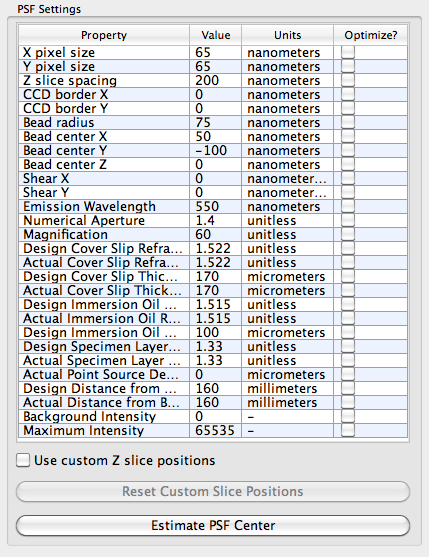
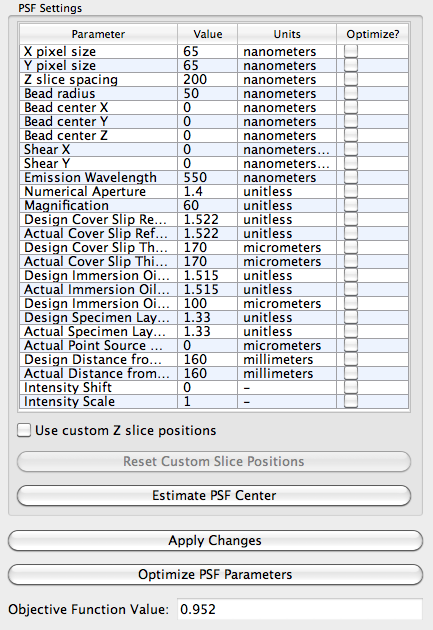
Finished first draft of user guide. Updated images to reflect interface changes.

diff --git a/docs/PSFEstimator-UserGuide.tex b/docs/PSFEstimator-UserGuide.tex
@@ -41,7 +41,9 @@
 
 \section{Introduction}
 
-PSF Estimator is a program for computing a noise-free estimate of a point-spread function (PSF) of widefield and confocal microscopes. It works by fitting an analytical model of the PSF to an image of a sub-diffraction-limit-sized fluorescent bead. The fitting is a a maximum likelihood estimate that assumes noise is either Gaussian distributed;.
+PSF Estimator is a program for computing a noise-free estimate of a point-spread function (PSF) of widefield and confocal microscopes. It works by fitting an analytical model of the \emph{bead-spread function} to an image of a sub-diffraction-limit-sized fluorescent bead. The bead-spread function (BSF) is calculated as the convolution of the PSF with a sphere whose radius is the same as the radius of the physical bead used to produce the measured image.
+
+The fitting process minimizes the mean squared difference between pixels in the measured image and corresponding pixels in the calculated image. This process yields a maximum likelihood estimate of the PSF (assuming that noise is Gaussian distributed).
 
 \subsection{System Requirements}
 
@@ -51,7 +53,7 @@ Your system should have at least 150 MB of hard drive space free to install the 
 
 \subsection{Acknowledgements}
 
-PSF Estimator \ProgramVersion is developed and maintained by the \href{http://www.cismm.org}{Center for Computer Integrated Systems for Microscopy and Manipulation}, a \href{http://www.nibib.nih.gov/}{National Institute of Biomedical Imaging and Bioengineering Resource}, award number P41-EB002025.
+PSF Estimator \ProgramVersion is developed and maintained by the \href{http://www.cismm.org}{Center for Computer Integrated Systems for Microscopy and Manipulation}, a \href{http://www.nibib.nih.gov/}{National Institute of Biomedical Imaging and Bioengineering Resource}, award number P41-EB002025. Additional work was supported by the National Library of Medicine Insight Toolkit Adapters, Algorithms, Data, and Distribution program.
 
 \section{Installation}
 
@@ -104,7 +106,7 @@ The main program window is organized into several sections.
 
 \subsubsection{Visualization Panel}
 
-The visualization panel (center) displays PSFs via three orthogonal cutting planes. A measured PSF imported into the program, a calculated PSF, or a calculated bead-spread function (BSF, the image of a spherical bead convolved with the PSF) can be displayed here. Only one of these images may displayed at one time; switching between them enables visual inspection of the PSF fitting results.
+The \emph{Visualization Panel} (center, Figure \ref{fig:ProgramWindow}) displays PSFs via three orthogonal cutting planes. A measured PSF imported into the program, a calculated PSF, or a calculated bead-spread function (BSF, the image of a spherical bead convolved with the PSF) can be displayed here. Only one of these images may displayed at one time; switching between them enables visual inspection of the PSF fitting results.
 
 \subsubsection{Display Settings}
 
@@ -112,16 +114,15 @@ The \emph{Display Settings} control which PSF image is displayed in the \emph{Vi
 
 \begin{description}
 
-  \item[Image] \hfill \\
-   
+  \item[Image] \hfill
    \begin{figure}[h]
     \centering
     \includegraphics[scale=0.5]{images/ImageControls}
-    \caption{Image controls.}
+    \caption{The image controls determine which image is displayed in the \emph{Visualization Panel}.}
     \label{fig:ImageControls}
   \end{figure}
  
-  These controls let you choose which image to display: the measured bead-spread function, the point-spread function corresponding to the current PSF settings, or the bead-spread function corresponding to the current PSF settings.
+The controls shown in Figure \ref{fig:ImageControls} let you choose which image to display: the measured bead-spread function, the point-spread function corresponding to the current PSF settings, the bead-spread function corresponding to the current PSF settings, or the difference between the measured image and the bead-spread function. If no measured image is loaded in the program, then the \emph{Measured Bead-Spread Function} and \emph{Measured Minus Calculated BSF} are disabled.
 
   \item[Contrast] \hfill \\
   
@@ -132,7 +133,7 @@ The \emph{Display Settings} control which PSF image is displayed in the \emph{Vi
     \label{fig:ContrastControls}
   \end{figure}
   
-  Controls which PSF/BSF image voxel value maps to black and which voxel value maps to white.
+  The contrast controls (Figure \ref{fig:ContrastControls}) determine which PSF/BSF image voxel value maps to black and which voxel value maps to white. The range of the controls is set to the minimum and maximum voxel values in the image selected in the \emph{Image} panel.
 
   \item[Image Plane Settings] \hfill \\
   
@@ -143,7 +144,7 @@ The \emph{Display Settings} control which PSF image is displayed in the \emph{Vi
     \label{fig:ImagePlaneSettingsControls}
   \end{figure}
   
-  Control which slices through the image in the $yz$, $xz$, and $xy$ planes are displayed and whether those image planes are displayed. The range for the \emph{X Plane} setting is from 1 to the number of voxels into the $x$-direction, and the range for the \emph{Y Plane} and \emph{Z Plane} are similarly defined.
+  Shown in Figure \ref{fig:ImagePlaneSettingsControls}, these controls determine which slices through the image in the $yz$, $xz$, and $xy$ planes are displayed and whether those image planes are displayed. The range for the \emph{X Plane} setting is from 1 to the number of voxels into the $x$-direction, and the range for the \emph{Y Plane} and \emph{Z Plane} are similarly defined.
 
   \item[Outline] \hfill \\
   
@@ -191,7 +192,40 @@ The \emph{Image Information} control panel displays information about the image 
   \label{fig:PSFSettingsControlPanel}
 \end{figure}
 
-The PSF settings table is used to set parameters for the analytical PSF and BSF models. These parameters are described in Section \ref{sec:PointSpreadFunctionSettings} of this manual.
+The PSF settings table is used to set parameters for the analytical PSF and BSF models. The table has four columns giving the parameter name, parameter value, unit of measurement of the parameter, and a checkbox indicating whether the parameter will be optimized. Descriptions of individual parameters for PSF models supported by the program are described in Section \ref{sec:PointSpreadFunctionSettings} of this manual.
+
+The remaining controls are described below.
+
+\begin{description}
+
+  \item[Custom Z slice positions] \hfill \\
+  
+When checked, the \emph{Use custom Z slice positions} checkbox adds one PSF parameter in the PSF settings table for each Z slice in the image. This feature can be used to fit image stacks obtained on microscopes with motorized stages that do not produce a uniform Z spacing at nanometer accuracy.
+
+  \item[Reset Custom Slice Positions] \hfill \\
+  
+When clicked, this button resets the custom Z slice position parameters in the PSF settings table to be evenly spaced with the spacing determined by the \emph{Z slice spacing} parameter. The center of the image along the Z dimension is defined to be at position Z = 0. This button is enabled only when the \emph{Custom Z slice positions} option is checked.
+
+  \item[Estimate PSF Center] \hfill \\
+  
+Clicking this button sets the center of the BSF to the center of the voxel with highest intensity in the measured BSF image.
+
+  \item[Apply Changes] \hfill \\
+  
+  Because the computation of the BSF may take several seconds, the BSF image is not updated as soon as a parameter value is changed. Instead, the BSF is updated when the \emph{Apply Changes} button is clicked. This button is enabled only after a parameter has changed.
+  
+  \item[Optimize PSF Parameters] \hfill \\
+  
+  This button starts an optimization routine that searches for parameter values that minimize an objective function. Only parameters selected for optimization (those whose checkbox in the \emph{Optimize?} column of the PSF settings table is checked) are modified by the optimization routine. Optimizing a few parameters is faster than optimizing numerous parameters.
+  
+  \item[Objective Function Value] \hfill \\
+  
+  This displays the value of the objective function used for model fitting. Lower numbers are better.
+
+\end{description}
+
+
+
 
 \subsection{Menu Bar}
 
@@ -203,7 +237,7 @@ The \emph{File Menu} features options for creating PSFs of arbitrary size, openi
 
 \begin{description}
   \item[New Image] \hfill \\
-  Creates a new PSF with default settings. The size and voxel spacing of the new image can be set prior to the creation of the image. This option is useful for generating a theoretical PSF at arbitrary sampling rates when the PSF parameters are known.
+  Creates a new PSF with default settings. The size and voxel spacing of the new image are set prior to the creation of the image. This option is useful for generating a theoretical PSF at arbitrary voxel size when the PSF parameters are known.
 
   \item[Open Image...] \hfill \\
   Opens image data. 3D TIFF, VTK, and LSM files are supported. Sequences of 2D TIFF images currently cannot be imported.
@@ -282,14 +316,14 @@ The \emph{File Menu} features options for creating PSFs of arbitrary size, openi
   \item[Bead center Z] \hfill \\
    The position of the bead center in the $z$ direction. The origin is defined to be the center of the measured BSF image.
     
-  \item[Shear in X] \hfill \\
+  \item[Shear X] \hfill \\
 Models lateral stage movement in the $x$-direction as a linear function directly proportional to the $z$-depth of the focal plane. The $x$-offset in the shear direction is defined as
 \begin{equation}
 x_{\mathrm{offset}} = m_{x} z
 \end{equation}
 where $m_{x}$ is the \emph{Shear in X} setting value and $z$ is the focal plane depth. The $x_{\mathrm{offset}}$ is added to the $x$-coordinate of each voxel position during image generation.
 
-  \item[Shear in Y] \hfill \\
+  \item[Shear Y] \hfill \\
    Same as \emph{Shear in X} but in the $y$-direction.
 
   \item[Emission Wavelength] \hfill \\
@@ -337,15 +371,63 @@ where $m_{x}$ is the \emph{Shear in X} setting value and $z$ is the focal plane 
   \item[Actual Distance from Back Focal Plane to Detector] \hfill \\
    The actual distance from the back focal plane of the objective lens to the CCD camera.
   
-  \item[Background Intensity] \hfill \\
-   A uniform background intensity added to each voxel intensity value.
+  \item[Intensity Shift] \hfill \\
+   A uniform background intensity added to each voxel intensity value. This value is added to the image before the \emph{Intensity Scale} parameter is applied. The parameter value is typically found via optimization.
   
-  \item[Maximum Intensity] \hfill \\
-   The maximum intensity value in calculated PSF or BSF.
-      
+  \item[Intensity Scale] \hfill \\
+   This parameter is a scale factor for each voxel intensity. Each voxel intensity is multiplied by this value after the \emph{Intensity Shift} value is added to it. The parameter value is typically found via optimization.
+ 
 \end{description}
 
 \subsection{Gaussian PSF Model for Confocal Microscopes}
+
+A Gaussian PSF model suitable for confocal microscope PSF estimation will be available in a future version of the PSF Estimator.
+
+\section{Using PSF Estimator}
+
+This section provides some helpful tips for using the program.
+
+\subsection{Preparing Data}
+
+PSF Estimator loads only single files representing a 3D image. Unfortunately, sequences of 2D images cannot be loaded. ImageJ can be used to convert just about any image used in microscopy to a 3D TIF image suitable for importing into PSF Estimator.
+
+\subsection{Locating a Suitable Bead in an Image}
+
+Depending on your protocol for imaging sub-diffraction-limited beads to obtain a point-spread function, your 3D image of fluorescent beads may have numerous beads in the field of view. For performance reasons, you'll want to crop the full 3D image in the X and Y dimensions, but do not crop in Z; you will want as much out-of-focus information as you can get. The cropped region should be sufficiently large to ensure that the full extent of the PSF (wherever the intensities are above the mean background intensity) is retained. Since PSF Estimator is designed to fit the PSF to an image of a single bead, it is important to crop out a region of a bead that is well-separated from neighboring beads. PSF Estimator does not have a feature to crop images, so an external image tool is required for this step. ImageJ can crop 3D images easily.
+
+\subsection{Importing the Image}
+
+Select the \emph{Open Image...} item in the \emph{File} menu. In the file chooser that appears, select the bead image you wish to load.
+
+\subsection{Setting Initial Parameters}
+
+It is likely that you know values for some of the parameters, such as \emph{X pixel size}, \emph{Y pixel size}, and \emph{Z slice spacing}. Set the values you know in the PSF settings table. Depending on the PSF model you are fitting, you may know other parameter values as well. Examples include \emph{Numerical Aperture} and \emph{Design Cover Slip Refractive Index} in the Gibson-Lanni PSF model. Set these values according to what you know about the microscope.
+
+Click the \emph{Estimate PSF Center} button to estimate the bead center parameters.
+
+\subsection{Optimization}
+
+Fitting the PSF to the imported bead image involves an optimization process. Experience has shown that performing several separate optimizations is helpful for obtaining a good PSF fit quickly. These sub-optimizations are described below.
+
+\subsubsection{Optimize Intensity Shift and Intensity Scale}
+
+These parameters are perhaps the most important parameters to estimate accurately. They modify the voxel intensities via a linear transform to match the intensity range of the measured image. Assuming the bead center is close to the true center of the bead, you can optimize just these two parameters to start with. Modifications to the voxel intensities is a relatively quick operation, so this step will not usually take long.
+
+\subsubsection{Optimize Position, Intensity Shift and Intensity Scale}
+
+The optimal \emph{Intensity Shift} and \emph{Intensity Scale} values depend on the bead position being accurate. The accuracy of the bead position, in turn, depends on the intensity shift and scale being correct. Optimizing these parameters together is a helpful next step.
+
+\subsubsection{Optimize Position, Shear, Intensity Shift and Intensity Scale}
+
+If your microscope stage moves laterally as a linear function of its Z position, then you will want to recover the parameters of this lateral motion. The \emph{Shear X} and \emph{Shear Y} parameters define the rate of lateral motion relative to the motion in Z. Optimizing the shear parameters, together with the position and intensity parameters, is often a good next step.
+
+\subsubsection{Optimize Numerical Aperture}
+
+The \emph{Numerical Aperture} parameter has a dramatic effect on the overall size of the bead-spread function. Optimizing this parameter alone is a good idea after the previous sub-optimizations.
+
+\subsubsection{Optimize Most Parameters}
+
+Once the previous suggested sub-optimizations have been run, you can select most of the parameters in the PSF model for optimization. The optimization routine can handle the relatively large number of parameters in the Gibson-Lanni model well with a set of starting parameters close to the true parameter values. Your knowledge of the microscope settings along with the results of the previous sub-optimizations usually provide a good set of starting parameters.
 
 \section{Version History}
 
